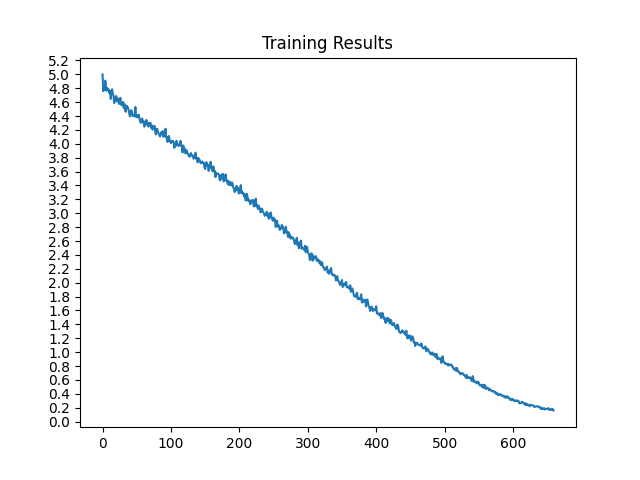
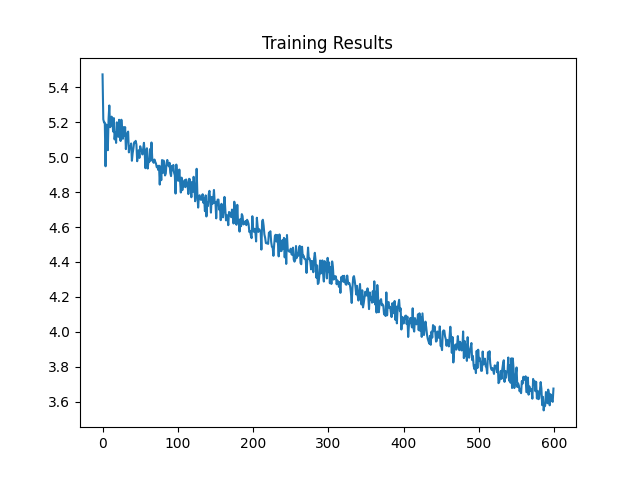
30 words

diff --git a/main.py b/main.py
@@ -24,7 +24,7 @@ EOS_token = 1
 teacher_forcing_ratio = 0.5
 
 def filterPair(p):
-    return len(p[0].split(' ')) < 12 and len(p[1].split(' ')) < 12
+    return len(p[0].split(' ')) < 30 and len(p[1].split(' ')) < 30
 
 def filterPairs(pairs):
     return [pair for pair in pairs if filterPair(pair)]
@@ -70,7 +70,7 @@ def train(input_tensor, target_tensor, encoder, decoder, encoder_optimizer, deco
     input_length = input_tensor.size(0)
     target_length = target_tensor.size(0)
 
-    encoder_outputs = torch.zeros(12, encoder.hidden_size, device="cuda")
+    encoder_outputs = torch.zeros(30, encoder.hidden_size, device="cuda")
     loss = 0
 
     for ei in range(input_length):
@@ -171,7 +171,7 @@ def evaluate(encoder, decoder, sentence):
         input_length = input_tensor.size()[0]
         encoder_hidden = encoder.initHidden()
 
-        encoder_outputs = torch.zeros(12, encoder.hidden_size, device="cuda")
+        encoder_outputs = torch.zeros(30, encoder.hidden_size, device="cuda")
 
         for ei in range(input_length):
             encoder_output, encoder_hidden = encoder(input_tensor[ei], encoder_hidden)
@@ -182,9 +182,9 @@ def evaluate(encoder, decoder, sentence):
         decoder_hidden = encoder_hidden
 
         decoded_words = []
-        decoder_attentions = torch.zeros(12, 12)
+        decoder_attentions = torch.zeros(30, 30)
 
-        for di in range(12):
+        for di in range(30):
             decoder_output, decoder_hidden, decoder_attention = decoder(decoder_input, decoder_hidden, encoder_outputs)
             decoder_attentions[di] = decoder_attention.data
             topv, topi = decoder_output.data.topk(1)
@@ -283,7 +283,7 @@ if __name__ == '__main__':
         encoder1 = EncoderRNN.EncoderRNN(input_lang.n_words, hidden_size).to("cuda")
         attn_decoder1 = DecoderRNN.AttnDecoderRNN(hidden_size, output_lang.n_words, dropout_p=0.1).to("cuda")
 
-        epochs = 30
+        epochs = 10
 
         trainIters(encoder1, attn_decoder1, epochs, print_every=10000)
         evaluateRandomly(encoder1, attn_decoder1)

diff --git a/DecoderRNN.py b/DecoderRNN.py
@@ -11,7 +11,7 @@ class AttnDecoderRNN(nn.Module):
         self.dropout_p = dropout_p
 
         self.embedding = nn.Embedding(self.output_size, self.hidden_size)
-        self.attn = nn.Linear(self.hidden_size * 2, 12)
+        self.attn = nn.Linear(self.hidden_size * 2, 30)
         self.attn_combine = nn.Linear(self.hidden_size * 2, self.hidden_size)
         self.dropout = nn.Dropout(self.dropout_p)
         self.gru = nn.GRU(self.hidden_size, self.hidden_size)

diff --git a/FileReading.py b/FileReading.py
@@ -68,10 +68,10 @@ def readLangs(lang1, lang2, reverse=False):
     print("English length frequencies:", frequency)
 
     freq = []
-    for x in list(frequency)[12:]:
+    for x in list(frequency)[30:]:
         freq.append(frequency[x])
 
-    print("Sentences with more than 12 words:", sum(freq))
+    print("Sentences with more than 30 words:", sum(freq))
 
     if reverse:
         pairs = [list(reversed(p)) for p in pairs]
